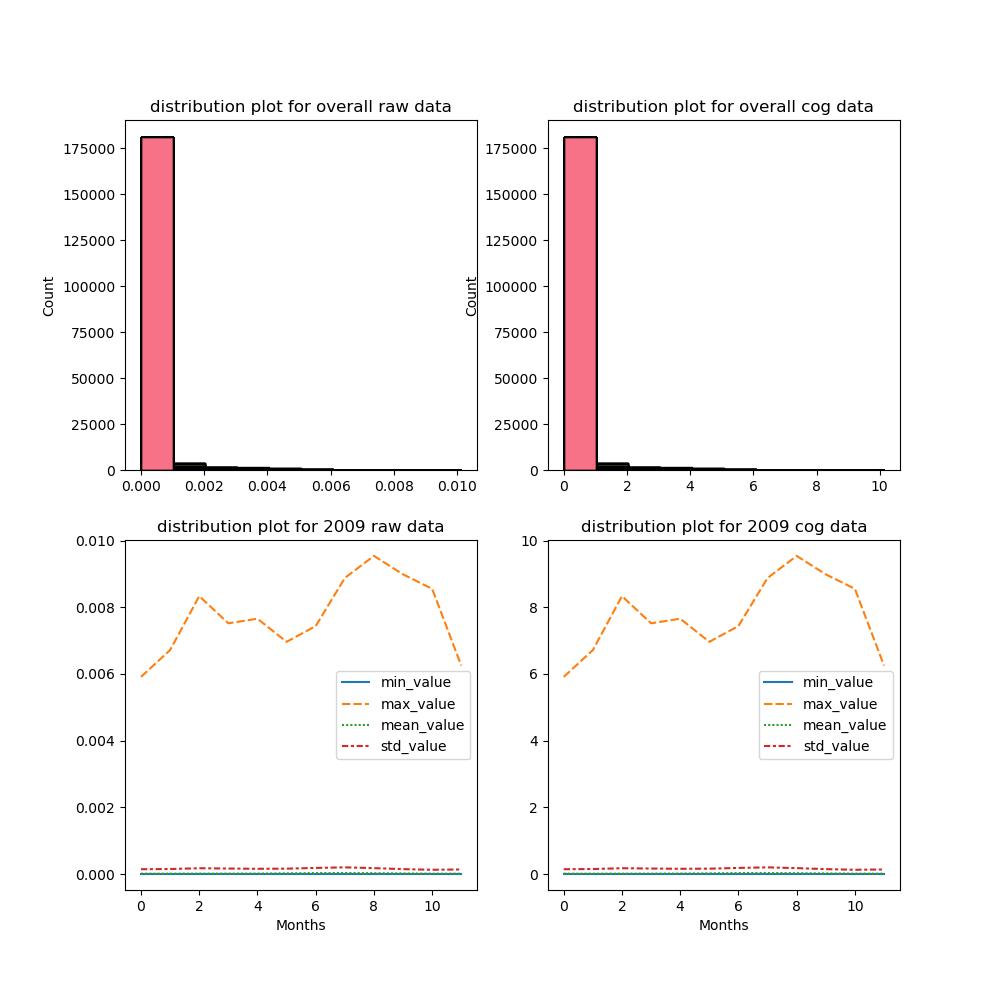
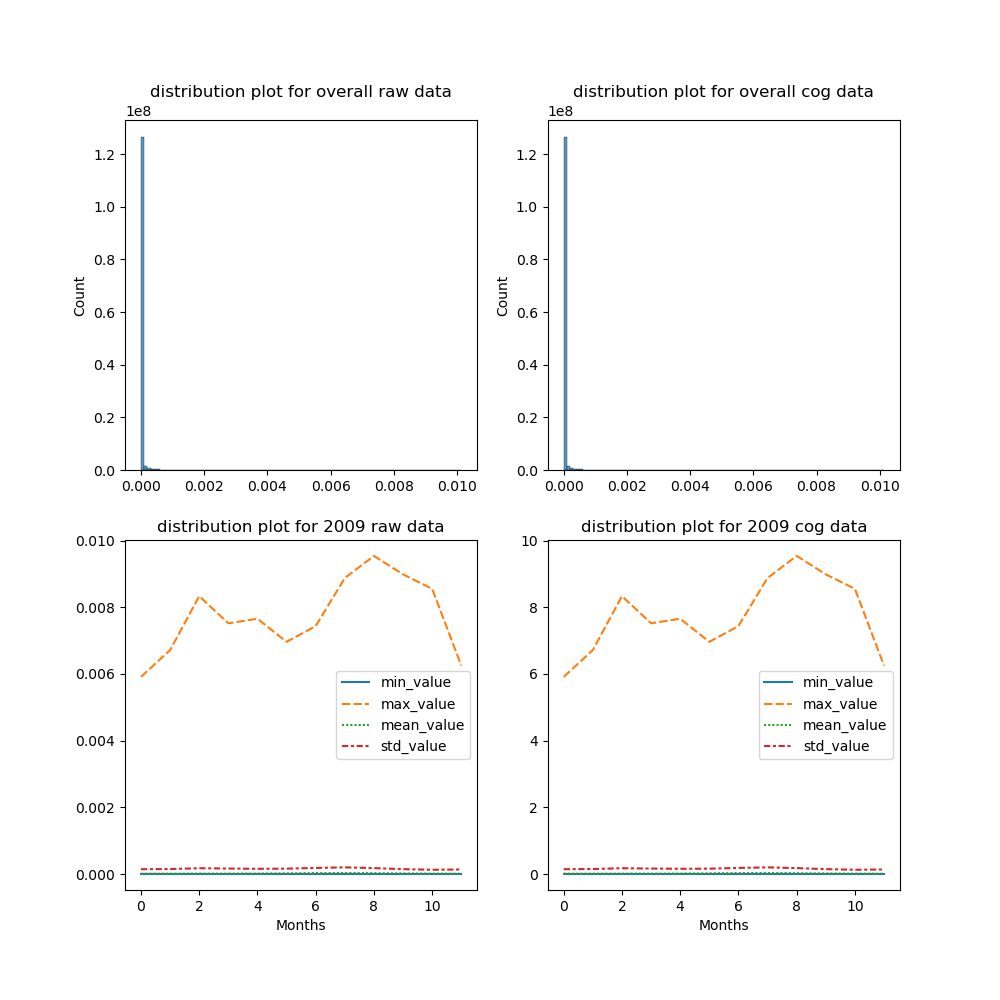
Generated CMIP6 COGs alonngwith generate statistics for LPJ wetlands dataset

diff --git a/cog_transformation/cmip6-transformation.py b/cog_transformation/cmip6-transformation.py
@@ -1,0 +1,109 @@
+import os
+import xarray
+import re
+import pandas as pd
+import json
+import tempfile
+import boto3
+from datetime import datetime
+import s3fs
+from dotenv import load_dotenv
+
+load_dotenv()
+
+
+raw_data_bucket = "cmip6-staging"
+cog_data_s3_bucket = "climatedashboard-data"
+model_name = "climdex/tmaxXF/ACCESS-CM2"
+# session = boto3.Session(
+#     aws_access_key_id=os.environ.get("AWS_ACCESS_KEY_ID"),
+#     aws_secret_access_key=os.environ.get("AWS_SECRET_ACCESS_KEY"),
+#     aws_session_token=os.environ.get("AWS_SESSION_TOKEN"),
+# )
+session = boto3.Session(profile_name="vs_code_user")
+
+s3_client = session.client("s3")
+files_processed = pd.DataFrame(columns=["file_name", "COGs_created"])
+
+
+def get_all_s3_keys(bucket, model_name):
+    """Get a list of all keys in an S3 bucket."""
+    keys = []
+
+    kwargs = {"Bucket": bucket, "Prefix": f"{model_name}/"}
+    while True:
+        resp = s3_client.list_objects_v2(**kwargs)
+        for obj in resp["Contents"]:
+            if obj["Key"].endswith(".nc") and "historical" not in obj["Key"]:
+                keys.append(obj["Key"])
+
+        try:
+            kwargs["ContinuationToken"] = resp["NextContinuationToken"]
+        except KeyError:
+            break
+
+    return keys
+
+
+keys = get_all_s3_keys(raw_data_bucket, model_name)
+fs = s3fs.S3FileSystem(profile="vs_code_user", anon=False)
+
+for key in keys:
+    file_obj = fs.open(f"s3://{raw_data_bucket}/{key}")
+    xds = xarray.open_dataset(file_obj, engine="h5netcdf")
+    xds = xds.assign_coords(lon=(((xds.lon + 180) % 360) - 180)).sortby("lon")
+    variable = [var for var in xds.data_vars]
+
+    filename = key.split("/")[-1]
+
+    # filename_elements = filename.split("_")
+
+    # date_fmt = None
+    # if timestep == "day":
+    #     date_fmt = "%Y_%m_%d"
+    # elif timestep == "month":
+    #     date_fmt = "%Y%m"
+    # elif timestep == "CrossingYear":
+    #     pass
+    # else:
+    #     raise ValueError(f"Unrecognized date format in key: {key}")
+    date_fmt = "%Y"
+
+    for time_increment in range(0, len(xds.time)):
+        for var in variable:
+            filename_elements = filename.split("_")
+            data = getattr(xds.isel(time=time_increment), var)
+            data = data.isel(lat=slice(None, None, -1))
+            data.rio.set_spatial_dims("lon", "lat", inplace=True)
+            data.rio.write_crs("epsg:4326", inplace=True)
+            date = data.time.dt.strftime(date_fmt).item(0)
+
+            filename_elements[-1] = date
+            filename_elements.append(var)
+            cog_filename = "_".join(filename_elements)
+            # add extension
+            cog_filename = f"{cog_filename}.tif"
+            # cog_filepath = "/".join(key.split("/")[1:-1])
+
+            with tempfile.NamedTemporaryFile() as temp_file:
+                data.rio.to_raster(temp_file.name, driver="COG", compress="DEFLATE")
+                s3_client.upload_file(
+                    Filename=temp_file.name,
+                    Bucket=cog_data_s3_bucket,
+                    Key=f"climdex/tmaxXF/ACCESS-CM2/{cog_filename}",
+                )
+
+            files_processed = files_processed._append(
+                {
+                    "file_name": key,
+                    "COGs_created": f"climdex/tmaxXF/ACCESS-CM2/{cog_filename}",
+                },
+                ignore_index=True,
+            )
+
+            print(f"Generated and saved COG: {cog_filename}")
+
+files_processed.to_csv(
+    f"s3://{cog_data_s3_bucket}/CMIP6/files_converted.csv",
+)
+print("Done generating COGs")

diff --git a/generating_statistics_for_validation/lpjwsl-wetlandch4-monthgrid-v1/lpjwsl-wetlandch4-monthgrid-v1-generate-statistics.py b/generating_statistics_for_validation/lpjwsl-wetlandch4-monthgrid-v1/lpjwsl-wetlandch4-monthgrid-v1-generate-statistics.py
@@ -116,7 +116,7 @@ for tif_file in tif_files:
                 "std_value": std_value,
             }
 
-
+full_data_df_cog = full_data_df_cog/1000
 overall_stats_netcdf["min_value"] = np.float64(full_data_df_netcdf.values.min())
 overall_stats_netcdf["max_value"] = np.float64(full_data_df_netcdf.values.max())
 overall_stats_netcdf["mean_value"] = np.float64(full_data_df_netcdf.values.mean())
@@ -128,27 +128,42 @@ overall_stats_cog["mean_value"] = np.float64(full_data_df_cog.values.mean())
 overall_stats_cog["std_value"] = np.float64(full_data_df_cog.values.std())
 
 
-with open(
-    "monthly_stats.json",
-    "w",
-) as fp:
-    json.dump("\n Stats for raw netCDF files. \n")
+with open("monthly_stats.json", "w") as fp:
+    json.dump("Stats for raw netCDF files.", fp)
+    fp.write("\n")
     json.dump(summary_dict_netcdf, fp)
-    json.dump("\n Stats for transformed COG files. \n")
+    fp.write("\n")
+    json.dump("Stats for transformed COG files.", fp)
+    fp.write("\n")
     json.dump(summary_dict_cog, fp)
 
 with open("overall_stats.json", "w") as fp:
-    json.dump("\n Stats for raw netCDF files. \n")
+    json.dump("Stats for raw netCDF files.", fp)
+    fp.write("\n")
     json.dump(overall_stats_netcdf, fp)
-    json.dump("\n Stats for transformed COG files. \n")
+    fp.write("\n")
+    json.dump("Stats for transformed COG files.", fp)
+    fp.write("\n")
     json.dump(overall_stats_cog, fp)
 
 fig, ax = plt.subplots(2, 2, figsize=(10, 10))
 plt.Figure(figsize=(10, 10))
-sns.histplot(data=full_data_df_netcdf, kde=False, bins=10, legend=False, ax=ax[0][0])
+sns.histplot(
+    data=full_data_df_netcdf.to_numpy().flatten(),
+    kde=False,
+    bins=100,
+    legend=False,
+    ax=ax[0][0],
+)
 ax[0][0].set_title("distribution plot for overall raw data")
 
-sns.histplot(data=full_data_df_cog, kde=False, bins=10, legend=False, ax=ax[0][1])
+sns.histplot(
+    data=full_data_df_cog.to_numpy().flatten(),
+    kde=False,
+    bins=100,
+    legend=False,
+    ax=ax[0][1],
+)
 ax[0][1].set_title("distribution plot for overall cog data")
 
 temp_df = pd.DataFrame()
